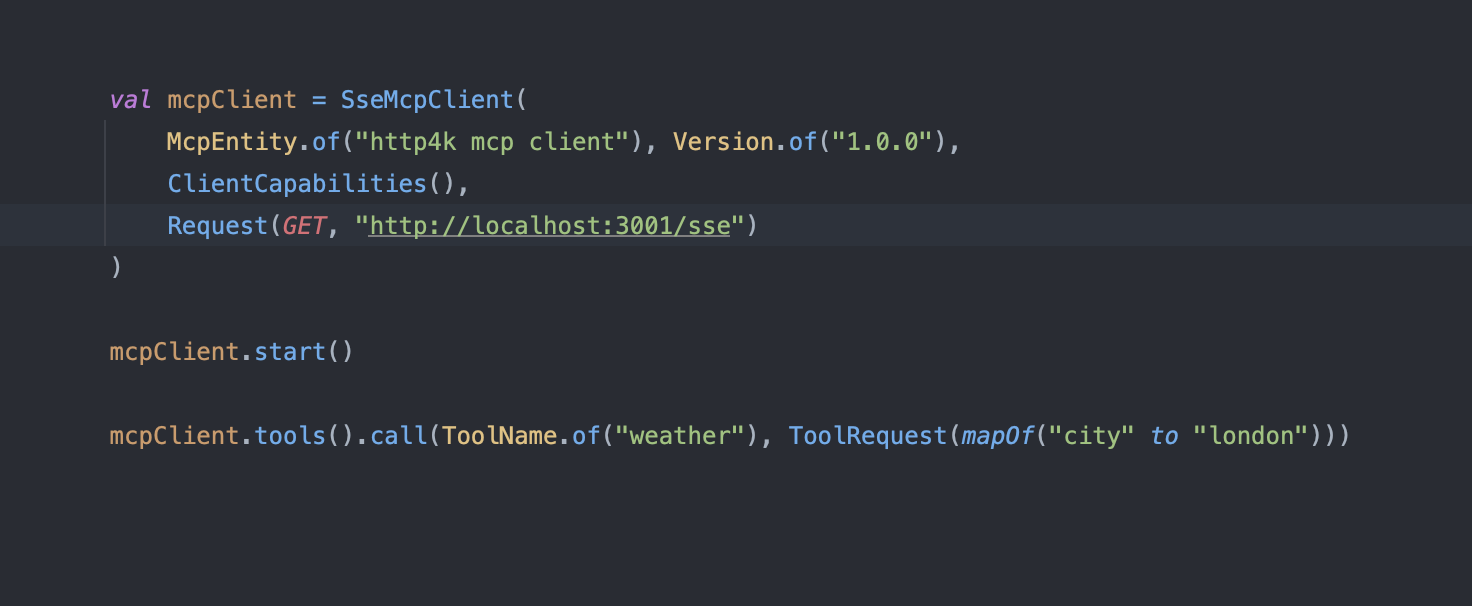
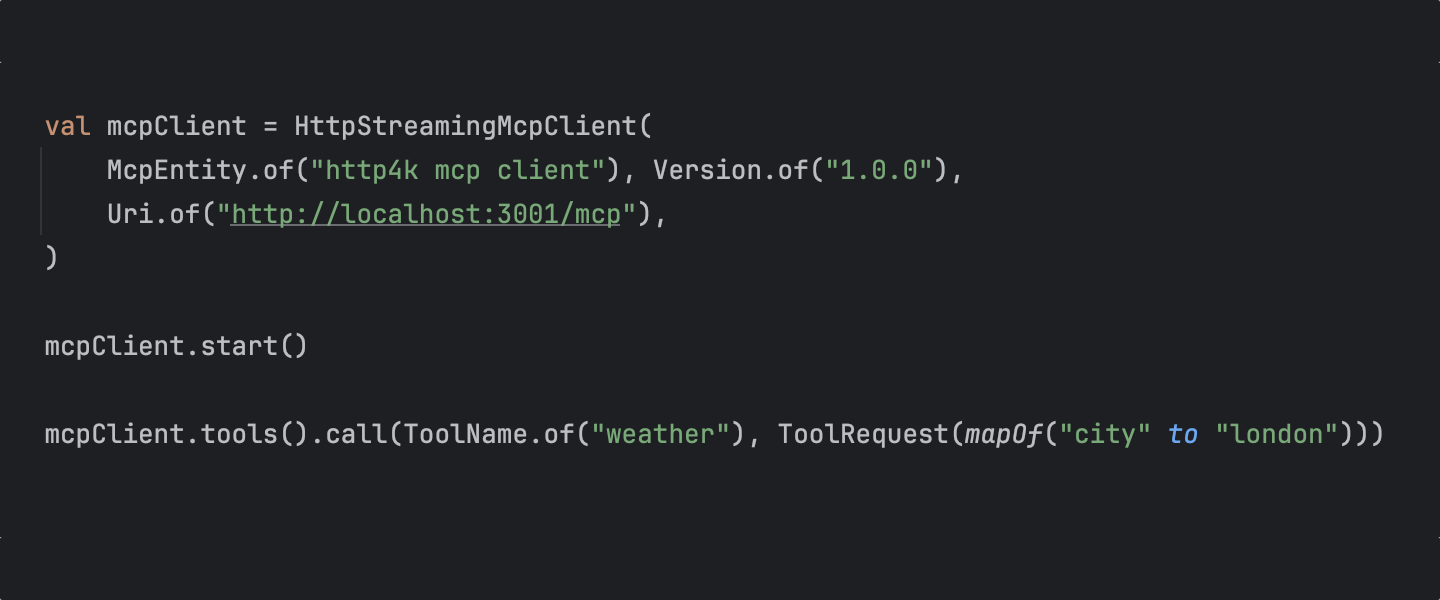
deploy: http4k/www@8f913134675a8a1cfcea980709a852c6d0ce5c91

Changed region(s): [[0.0, 0.15, 1.0, 0.42], [0.0312, 0.69, 0.9688, 0.75], [0.0312, 0.54, 0.25, 0.6]]

diff --git a/ecosystem/changelog/index.html b/ecosystem/changelog/index.html
@@ -75,7 +75,7 @@
 <span class=navbar-toggler-icon></span></button><div class="collapse navbar-collapse" id=navbarContent><ul class="navbar-nav ms-auto mb-2 mb-xl-0"><li class="nav-item dropdown"><a class="nav-link dropdown-toggle text-white px-3" id=navbarDropdown role=button data-bs-toggle=dropdown aria-expanded=false>About</a><ul class=dropdown-menu aria-labelledby=navbarDropdown><li><a class=dropdown-item href=/overview/>Overview</a></li><li><a class=dropdown-item href=/news/>News</a></li><li><a class=dropdown-item href=/showcase/>Showcase</a></li></ul></li><li class="nav-item dropdown"><a class="nav-link dropdown-toggle text-white px-3" id=navbarDropdown role=button data-bs-toggle=dropdown aria-expanded=false>Learn</a><ul class=dropdown-menu aria-labelledby=navbarDropdown><li><a class=dropdown-item href=/learn/>About the docs</a></li><li><a class=dropdown-item href=/quickstart/>Quickstart</a></li><li><a class=dropdown-item href=/tutorial/>Tutorials</a></li><li><a class=dropdown-item href=/howto/>How-to guides</a></li><li><a class=dropdown-item href=/faq/>FAQ</a></li><li><a class=dropdown-item href=/performance/>Performance</a></li></ul></li><li class="nav-item dropdown"><a class="nav-link dropdown-toggle text-white px-3" id=navbarDropdown role=button data-bs-toggle=dropdown aria-expanded=false>Ecosystem</a><ul class=dropdown-menu aria-labelledby=navbarDropdown><li><a class=dropdown-item href=/ecosystem/>Overview</a></li><li><a class=dropdown-item href=/ecosystem/http4k/>http4k Core</a></li><li><a class=dropdown-item href=/ecosystem/connect/>http4k Connect</a></li><li><a class=dropdown-item href=/pro/>http4k Pro</a></li><li><a class=dropdown-item href=/ecosystem/changelog/>Changelog</a></li></ul></li><li class="nav-item dropdown"><a class="nav-link dropdown-toggle text-white px-3" id=navbarDropdown role=button data-bs-toggle=dropdown aria-expanded=false>Solutions</a><ul class=dropdown-menu aria-labelledby=navbarDropdown><li><a class=dropdown-item href=/solutions/>Overview</a></li><li><a class=dropdown-item href=/enterprise/>Enterprise Edition</a></li><li><a class=dropdown-item href=/pro/>http4k Pro modules</a></li><li><a class=dropdown-item href=/consulting/>Consulting</a></li><li><a class=dropdown-item href=/training/>Developer Training</a></li><li><a class=dropdown-item href=/security/>Security Advisories</a></li><li><a class=dropdown-item href=http://http4k.slack.com/>http4k EE Slack</a></li></ul></li><li class="nav-item dropdown"><a class="nav-link dropdown-toggle text-white px-3" id=navbarDropdown role=button data-bs-toggle=dropdown aria-expanded=false>Community</a><ul class=dropdown-menu aria-labelledby=navbarDropdown><li><a class=dropdown-item href=/community/>Our Community of Contributors</a></li><li><a class=dropdown-item href=https://kotlinlang.slack.com/archives/C5AL3AKUY>Community Slack</a></li><li><a class=dropdown-item href=/code-of-conduct/>Code of Conduct</a></li></ul></li><li class="nav-item dropdown"><a class="nav-link dropdown-toggle text-white px-3" id=navbarDropdown role=button data-bs-toggle=dropdown aria-expanded=false>Toolbox</a><ul class=dropdown-menu aria-labelledby=navbarDropdown><li><a class=dropdown-item href=https://toolbox.http4k.org/>Web</a></li><li><a class=dropdown-item href=https://plugins.jetbrains.com/plugin/25243-http4k-toolbox>IntelliJ</a></li><li><a class=dropdown-item href=https://toolbox.http4k.org/>CLI</a></li></ul></li><li id=searchBox class="nav-item searchBox align-content-center"></li><li class=nav-item><a class="nav-link text-primary px-3" href=https://github.com/http4k><img src=/images/octocat-inverted-64.png style=height:1.5rem alt=github></a></li></ul></div></div></nav></header><div class="layout newEcosystem"><aside class="aside col-auto"><div><img class="mb-3 sideToggle" src=/images/exchange-icon.svg width=20 alt srcset><ul class=list-unstyled><li><h2><a href=/ecosystem/http4k/>http4k Core</a></h2></li><li><h6>Latest version: <span class="badge text-bg-secondary">6.8.1.0</span></h6></li><li class=mt-3><h4>Concepts</h4><ul class="list-unstyled ms-3"><li class=mt-1><a href=/ecosystem/http4k/concepts/http/ class=ecoLink>HTTP</a></li><li class=mt-1><a href=/ecosystem/http4k/concepts/lens/ class=ecoLink>Lenses</a></li><li class=mt-1><a href=/ecosystem/http4k/concepts/server-sent-events/ class=ecoLink>Server-Sent Events</a></li><li class=mt-1><a href=/ecosystem/http4k/concepts/serverless/ class=ecoLink>Serverless</a></li><li class=mt-1><a href=/ecosystem/http4k/concepts/websockets/ class=ecoLink>WebSockets</a></li></ul></li><li class=mt-3><h4>Project</h4><ul class="list-unstyled ms-3"><li class=mt-1><a class=ecoLink href=/ecosystem/changelog/>Changelog</a></li><li class=mt-1><a class=ecoLink href=https://github.com/http4k/http4k>GitHub</a></li><li class=mt-1><a class=ecoLink href=/ecosystem/contributing/>Contributing</a></li><li class=mt-1><a class=ecoLink href=https://github.com/http4k/http4k/issues>Issue Tracker</a></li></ul></li><li class=mt-3><h4>Reference</h4><ul class="list-unstyled ms-3"><li class=mt-1><a href=/ecosystem/http4k/reference/core/ class=ecoLink>Core</a></li><li class=mt-1><a href=/ecosystem/http4k/reference/mcp/ class=ecoLink>AI: MCP SDK</a>
 <a href=/enterprise class=text-decoration-none title="Get http4k Pro modules!"><span style=transform:translateY(-10%) class="ms-1 badge text-bg-pro hover:opacity-80 transition-opacity">pro</span></a></li><li class=mt-1><a href=/ecosystem/http4k/reference/cloud_events/ class=ecoLink>API: CloudEvents</a></li><li class=mt-1><a href=/ecosystem/http4k/reference/graphql/ class=ecoLink>API: GraphQL</a></li><li class=mt-1><a href=/ecosystem/http4k/reference/jsonrpc/ class=ecoLink>API: JSON-RPC</a></li><li class=mt-1><a href=/ecosystem/http4k/reference/contracts/ class=ecoLink>API: OpenApi</a></li><li class=mt-1><a href=/ecosystem/http4k/reference/bridge/ class=ecoLink>Bridges</a></li><li class=mt-1><a href=/ecosystem/http4k/reference/clients/ class=ecoLink>Clients</a></li><li class=mt-1><a href=/ecosystem/http4k/reference/config/ class=ecoLink>Config</a></li><li class=mt-1><a href=/ecosystem/http4k/reference/dataframe/ class=ecoLink>Format: DataFrame</a></li><li class=mt-1><a href=/ecosystem/http4k/reference/json/ class=ecoLink>Format: JSON</a></li><li class=mt-1><a href=/ecosystem/http4k/reference/xml/ class=ecoLink>Format: XML</a></li><li class=mt-1><a href=/ecosystem/http4k/reference/yaml/ class=ecoLink>Format: YAML</a></li><li class=mt-1><a href=/ecosystem/http4k/reference/multipart/ class=ecoLink>Multipart</a></li><li class=mt-1><a href=/ecosystem/http4k/reference/failsafe/ class=ecoLink>Ops: Failsafe</a></li><li class=mt-1><a href=/ecosystem/http4k/reference/micrometer/ class=ecoLink>Ops: Micrometer</a></li><li class=mt-1><a href=/ecosystem/http4k/reference/opentelemetry/ class=ecoLink>Ops: OpenTelemetry</a></li><li class=mt-1><a href=/ecosystem/http4k/reference/resilience4j/ class=ecoLink>Ops: Resilience4J</a></li><li class=mt-1><a href=/ecosystem/http4k/reference/aws/ class=ecoLink>Platform: AWS</a></li><li class=mt-1><a href=/ecosystem/http4k/reference/azure/ class=ecoLink>Platform: Azure</a></li><li class=mt-1><a href=/ecosystem/http4k/reference/gcp/ class=ecoLink>Platform: GCP</a></li><li class=mt-1><a href=/ecosystem/http4k/reference/k8s/ class=ecoLink>Platform: K8S</a></li><li class=mt-1><a href=/ecosystem/http4k/reference/digest/ class=ecoLink>Security: Digest</a></li><li class=mt-1><a href=/ecosystem/http4k/reference/oauth/ class=ecoLink>Security: OAuth</a></li><li class=mt-1><a href=/ecosystem/http4k/reference/serverless/ class=ecoLink>Serverless</a></li><li class=mt-1><a href=/ecosystem/http4k/reference/servers/ class=ecoLink>Servers</a></li><li class=mt-1><a href=/ecosystem/http4k/reference/templating/ class=ecoLink>Templating</a></li><li class=mt-1><a href=/ecosystem/http4k/reference/testing/ class=ecoLink>Testing http4k</a></li><li class=mt-1><a href=/ecosystem/http4k/reference/approvaltests/ class=ecoLink>Testing: Approval</a></li><li class=mt-1><a href=/ecosystem/http4k/reference/chaos/ class=ecoLink>Testing: Chaos</a></li><li class=mt-1><a href=/ecosystem/http4k/reference/hamkrest/ class=ecoLink>Testing: Hamkrest</a></li><li class=mt-1><a href=/ecosystem/http4k/reference/kotest/ class=ecoLink>Testing: Kotest</a></li><li class=mt-1><a href=/ecosystem/http4k/reference/playwright/ class=ecoLink>Testing: Playwright</a></li><li class=mt-1><a href=/ecosystem/http4k/reference/servicevirtualisation/ class=ecoLink>Testing: Servirtium</a></li><li class=mt-1><a href=/ecosystem/http4k/reference/strikt/ class=ecoLink>Testing: Strikt</a></li><li class=mt-1><a href=/ecosystem/http4k/reference/tracerbullet/ class=ecoLink>Testing: TracerBullet</a></li><li class=mt-1><a href=/ecosystem/http4k/reference/webdriver/ class=ecoLink>Testing: WebDriver</a></li><li class=mt-1><a href=/ecosystem/http4k/reference/hot_reload/ class=ecoLink>Tools: Hot Reload</a>
 <a href=/enterprise class=text-decoration-none title="Get http4k Pro modules!"><span style=transform:translateY(-10%) class="ms-1 badge text-bg-pro hover:opacity-80 transition-opacity">pro</span></a></li><li class=mt-1><a href=/ecosystem/http4k/reference/datastar/ class=ecoLink>Web: Datastar</a></li><li class=mt-1><a href=/ecosystem/http4k/reference/htmx/ class=ecoLink>Web: HTMX</a></li><li class=mt-1><a href=/ecosystem/http4k/reference/webhooks/ class=ecoLink>Webhooks</a></li></ul></li></ul></div></aside><main class="page-content col"><article><img class="mb-3 sideToggle" src=/images/exchange-icon.svg width=20 alt srcset><div class=d-flex><h1>Changelog</h1></div><div class=mt-5><p>CHAN<h2 class=github>Changelog</h2></p><p>This list is not intended to be all-encompassing - it will document major and breaking API
-changes with their rationale when appropriate:</p><h3 id=v6810>v6.8.1.0</h3><ul><li><strong>http4k-</strong>*: Upgrade some dependency versio.</li><li><strong>http4k-mdk-sdk</strong>: Added support for auto-marshalled Tool args. You will need Kotlin Reflect on the classpath to use this feature.</li></ul><h3 id=v6800>v6.8.0.0</h3><ul><li><strong>http4k-</strong>*: Upgrade some dependency versio.</li><li><strong>http4k-realtime-core</strong>: Added <code>PolyFilter</code> and convenience filter for common <code>CorsAndRebindProtection</code></li><li><strong>http4k-mcp-sdk</strong>: [Breaking] Rework Tool Args to better support JSON schema definitions and for every arg to require an explicit type. To fix breaking
+changes with their rationale when appropriate:</p><h3 id=v6900>v6.9.0.0</h3><ul><li><strong>http4k-mdk-sdk</strong>: [Breaking] Removed options for running MCP servers without explicitly supplying a security implementation. This is now mandatory. If you wish to not supply a security implementation, please use the <code>NoMcpSecurity</code> object in place of one of the others (Basic, Bearer, ApiKey, OAuth).</li></ul><h3 id=v6810>v6.8.1.0</h3><ul><li><strong>http4k-</strong>*: Upgrade some dependency versio.</li><li><strong>http4k-mdk-sdk</strong>: Added support for auto-marshalled Tool args. You will need Kotlin Reflect on the classpath to use this feature.</li></ul><h3 id=v6800>v6.8.0.0</h3><ul><li><strong>http4k-</strong>*: Upgrade some dependency versio.</li><li><strong>http4k-realtime-core</strong>: Added <code>PolyFilter</code> and convenience filter for common <code>CorsAndRebindProtection</code></li><li><strong>http4k-mcp-sdk</strong>: [Breaking] Rework Tool Args to better support JSON schema definitions and for every arg to require an explicit type. To fix breaking
 changes, simply make <code>Tool.Arg</code> with <code>Tool.Arg.string()</code>.</li><li><strong>http4k-mcp-client</strong>: Added scopes to OAuth2 client credentials client filter.</li></ul><h3 id=v6700>v6.7.0.0</h3><ul><li><strong>http4k-</strong>*: Upgrade some dependency versions.</li><li><strong>http4k-mcp-sdk</strong>: Improved support for MCP security models, including new Protected Resource OAuth Standard which is present in the latest MCP Draft. This
 is a much more convenient way to use OAuth2 with the MCP.</li><li><strong>http4k-security-oauth</strong>: [Breaking] Can now retrieve Auth Server in various ways, using Protected Resource standard. Implementation of automatic auth
 server discovery.</li><li><strong>http4k-api-openapi</strong>: Add modelNamer to Jackson extension for OpenApi3 renderer. H/T @mbcltd</li><li><strong>http4k-api-graphql</strong>: Add support for root-level GraphQL extensions field in GraphQLResponse H/T @joostbaas</li></ul><h3 id=v6610>v6.6.1.0</h3><ul><li><strong>http4k-</strong>*: Upgrade some dependency versions.</li><li><strong>http4k-security-oauth</strong>: Add some WellKnown endpoints for serving metadata for OAuth2 providers.</li><li><strong>http4k-mcp-core-</strong>: Added <code>DirectoryResources</code> to be able to read from a directory of files.</li></ul><h3 id=v6601>v6.6.0.1</h3><ul><li><strong>http4k-mcp-core-</strong>: [Fix] Missing BOM for ForkHandles caused break in dependencies when using BOM</li></ul><h3 id=v6600>v6.6.0.0</h3><ul><li><strong>http4k-</strong>*: Upgrade some dependency versions.</li><li><strong>http4k-mcp-sdk</strong>: [Breaking] Repackaging of MCP code to avoid cross-module dependencies. It&rsquo;s just imports that need to be changed.</li><li><strong>http4k-mcp-client</strong>: [New module] New module purely for projects that need an MCP client without the server side code.</li><li><strong>http4k-mcp-core</strong>: [New module] New module for the core of the MCP domain.</li><li><strong>http4k-template-freemarker</strong>: [Fix #1337] FreemarkerTemplates sets incompatibleImprovements</li></ul><h3 id=v6561>v6.5.6.1</h3><ul><li><strong>http4k-mcp-sdk-</strong>*: [Fix] Fixes to RFC 6570 support in Resource URI Template.</li></ul><h3 id=v6560>v6.5.6.0</h3><ul><li><strong>http4k-mcp-sdk-</strong>*: Proper RFC 6570 support in Resource URI Template.</li></ul><h3 id=v6551>v6.5.5.1</h3><ul><li><strong>http4k-mcp-sdk-</strong>*: Fixing up resource template matching to better resemble RFC 6570.</li></ul><h3 id=v6550>v6.5.5.0</h3><ul><li><strong>http4k-</strong>*: Upgrade some dependency versions.</li><li><strong>http4k-mcp-sdk-</strong>*: Add better matching around ResourceTemplates.</li></ul><h3 id=v6540>v6.5.4.0</h3><ul><li><strong>http4k-</strong>*: Upgrade some dependency versions.</li><li><strong>http4k-format-</strong>*: Some convenience functions for JSON rendering.</li><li><strong>http4k-connect-amazon-sqs-</strong>*: [Fix] Correct SQS SendMessage request DTO (#1336) H/T @mghwang</li></ul><h3 id=v6530>v6.5.3.0</h3><ul><li><strong>http4k-</strong>*: Upgrade some dependency versions.</li><li><strong>http4k-mcp-sdk</strong>: Updates to support objects in new spec.</li><li><strong>http4k-connect-amazon-s3</strong>*: More support for keys containing hash (#). H/T @aharin</li></ul><h3 id=v6520>v6.5.2.0</h3><ul><li><strong>http4k-</strong>*: Upgrade some dependency versions.</li><li><strong>http4k-connect-amazon-s3</strong>*: Added support for s3 bucket keys containing hash (#). H/T @aharin</li><li><strong>http4k-mcp-sdk</strong>: Updates to support sampling callbacks in Tool and other requests.</li><li><strong>http4k-mcp-sdk</strong>: Add filters for all common MCP Request types</li></ul><h3 id=v6510>v6.5.1.0</h3><ul><li><strong>http4k-mcp-sdk</strong>: Tidy up completions API.</li></ul><h3 id=v6500>v6.5.0.0</h3><ul><li><strong>http4k-</strong>* : Upgrade some dependency versions.</li><li><strong>http4k-mcp-sdk</strong> [Breaking]: Protocol negotiation and turning on Server and Client capabilities by default.</li><li><strong>http4k-mcp-sdk</strong> Add in-band sampling and progress to most client requests</li></ul><h3 id=v6410>v6.4.1.0</h3><ul><li><strong>http4k-mcp-sdk</strong> [DevEx]: Capabilities now implement their Handler type, allowing you to call through directly to the handler,</li></ul><h3 id=v6400>v6.4.0.0</h3><ul><li><strong>http4k-</strong>* : Upgrade some dependency versions.</li><li><strong>http4k-mcp-sdk</strong> : [NEW PRO MODULE] A fully-featured SDK for the <a href=https://modelcontextprotocol.io>MCP</a> platform. See

diff --git a/_sites/mcp/server_example.kt b/_sites/mcp/server_example.kt
@@ -1,0 +1,45 @@
+package content._sites.mcp
+
+import org.http4k.core.Uri
+import org.http4k.mcp.ToolRequest
+import org.http4k.mcp.ToolResponse
+import org.http4k.mcp.model.Content
+import org.http4k.mcp.model.McpEntity
+import org.http4k.mcp.model.Tool
+import org.http4k.mcp.model.string
+import org.http4k.mcp.protocol.ServerMetaData
+import org.http4k.mcp.protocol.Version
+import org.http4k.mcp.server.capability.ToolCapability
+import org.http4k.mcp.server.security.OAuthMcpSecurity
+import org.http4k.routing.bind
+import org.http4k.routing.mcpHttpStreaming
+import org.http4k.server.JettyLoom
+import org.http4k.server.asServer
+
+
+fun main() {
+    val mcpServer = mcpHttpStreaming(
+        ServerMetaData(McpEntity.of("http4k MCP Server"), Version.of("1.0.0")),
+        OAuthMcpSecurity(Uri.of("https://oauth-server")) { it == "my_oauth_token" },
+        liveWeatherTool(),
+        loadFromFileSystem(),
+        searchWebsite()
+    )
+
+    mcpServer.asServer(JettyLoom(3002)).start()
+}
+
+
+fun liveWeatherTool(): ToolCapability {
+    val input = Tool.Arg.string().required("city")
+    return Tool(
+        "weather",
+        "Checks the weather for a particular city.", input
+    ) bind { request: ToolRequest ->
+        ToolResponse.Ok(listOf(Content.Text("Sunny and 100 degrees")))
+    }
+}
+
+
+fun loadFromFileSystem(): ToolCapability = TODO()
+fun searchWebsite(): ToolCapability = TODO()

diff --git a/_sites/mcp/client_example.kt b/_sites/mcp/client_example.kt
@@ -1,0 +1,21 @@
+package content._sites.mcp
+
+import org.http4k.connect.model.ToolName
+import org.http4k.core.Uri
+import org.http4k.mcp.ToolRequest
+import org.http4k.mcp.client.http.HttpStreamingMcpClient
+import org.http4k.mcp.model.McpEntity
+import org.http4k.mcp.protocol.Version
+
+fun main() {
+
+    val mcpClient = HttpStreamingMcpClient(
+        McpEntity.of("http4k mcp client"), Version.of("1.0.0"),
+        Uri.of("http://localhost:3001/mcp"),
+    )
+
+    mcpClient.start()
+
+    mcpClient.tools().call(ToolName.of("weather"), ToolRequest(mapOf("city" to "london")))
+
+}
